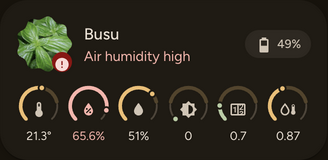
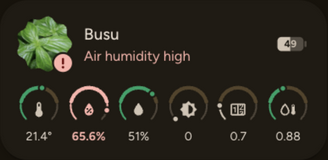
docs: refreshed screenshots and tooltip gallery image

diff --git a/README.md b/README.md
@@ -50,6 +50,10 @@ The dashboard above shows eleven plants. This single-card view shows a plant nee
 
 <img src="https://raw.githubusercontent.com/lageorgem/ha-material-plant-card/master/assets/card-problem-dark.png" alt="Plant card with a problem summary and alert badge on the photo" width="327">
 
+Long-press (or hover) a gauge for its tooltip with the metric, value and ideal range:
+
+<img src="https://raw.githubusercontent.com/lageorgem/ha-material-plant-card/master/assets/tooltip-dark.png" alt="Gauge tooltip showing Air humidity too high, 65.6 % with an ideal range of 20–60 %" width="327">
+
 Copy the [full-options example](examples/card.yaml) or [migration example](examples/migrate-from-flower-card.yaml). Release history: [CHANGELOG.md](CHANGELOG.md).
 
 ## Installation
